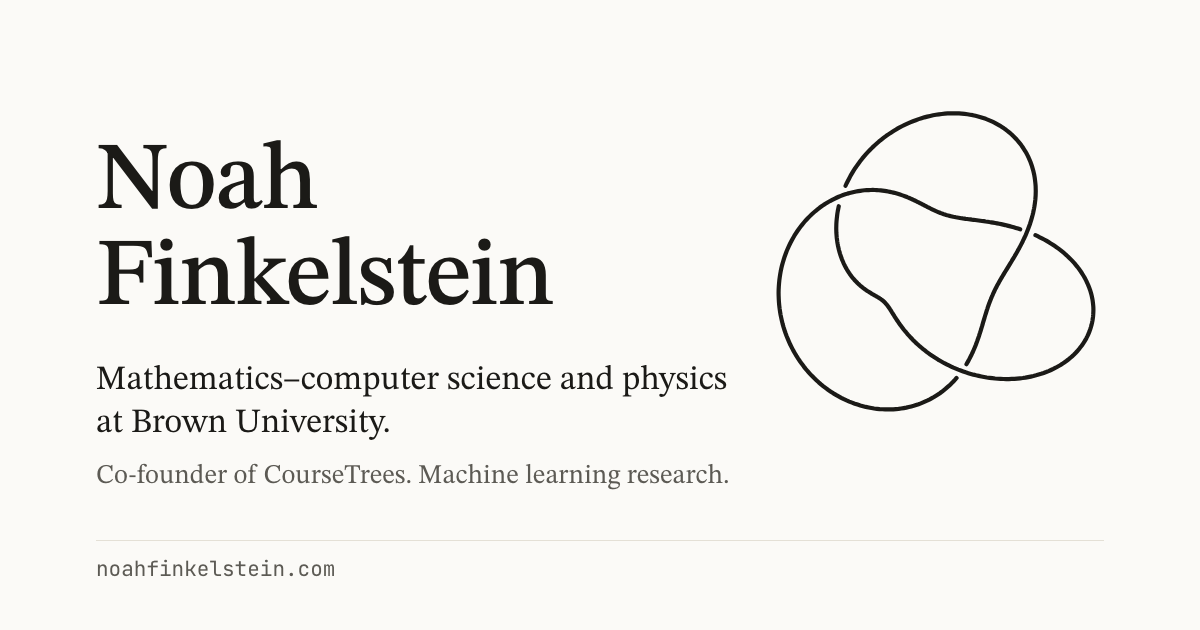
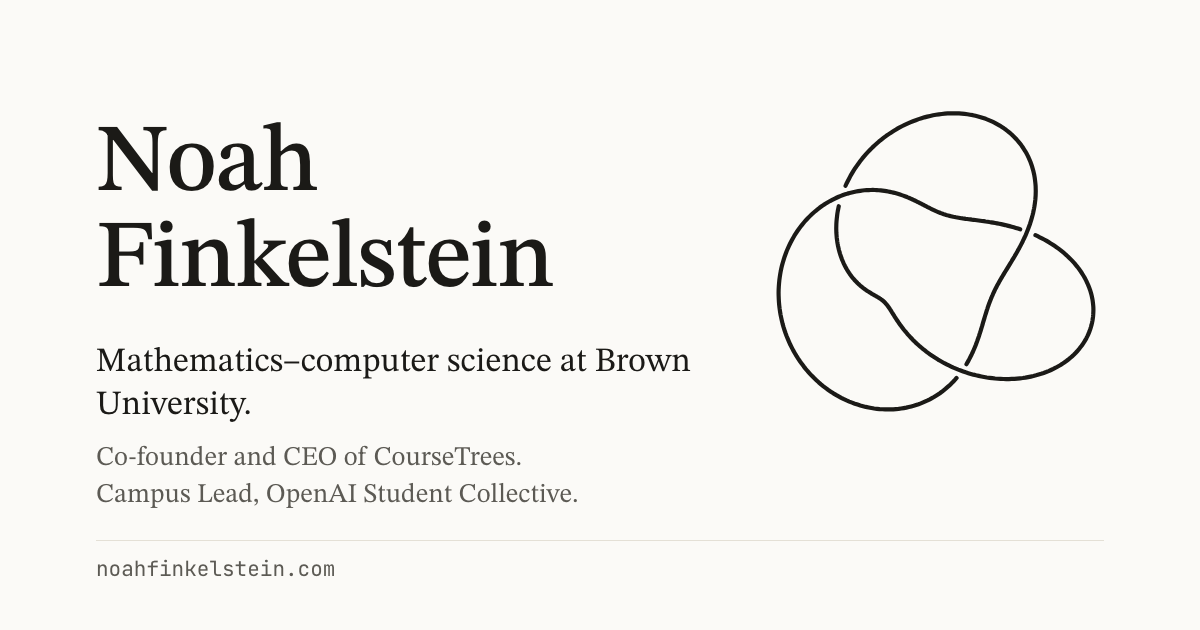
Align portfolio with October 2026 resume

Changed region(s): [[0.0617, 0.5429, 0.6167, 0.8143], [0.0617, 0.181, 0.4625, 0.4825]]

diff --git a/src/content/experience.ts b/src/content/experience.ts
@@ -24,39 +24,57 @@ export type Role = {
 
 export const experience: Role[] = [
   {
-    date: "Jun–Aug 2026",
-    role: "Research Student",
-    org: "Massachusetts General Hospital, Biostatistics Research Group",
-    place: "Boston",
+    date: "Aug 2026 –",
+    role: "Campus Lead",
+    org: "OpenAI Student Collective",
+    place: "Providence, RI",
     bullets: [
-      "Ran a simulation study testing alternative thresholds for the Long COVID Research Index, using LASSO-regularized k-means over 40-dimensional negative-unlabeled cohort data and comparing how the choice of distance metric changed the answer.",
-      "Cut the runtime of the analysis pipeline with multithreaded parallel computation, and ported parts of it out of R’s Tidyverse into Python.",
-      "The work sits inside the NIH RECOVER Initiative, a $1.8 billion study with roughly 30,000 enrolled participants.",
+      "Coordinated with the OpenAI team on campus workshops focused on ChatGPT, Codex, and AI-assisted development.",
     ],
-    stack: ["R", "Python", "scikit-learn"],
   },
   {
-    date: "Apr 2026 –",
+    date: "Jun 2026 –",
     role: "Co-Founder and CEO",
     org: "CourseTrees",
     orgHref: "https://coursetrees.com",
     bullets: [
-      "Co-founded and built a course-planning tool that draws a university’s catalog as a graph: 400,000 courses and 220,000 prerequisite edges across 150 universities.",
-      "Wrote most of the stack: Next.js and React on the front, Python scrapers and PostgreSQL behind them, deployed on Vercel and Supabase.",
-      "200 users and 3,500 page requests in the first day. Sponsored by Brown’s First-Year Advising and Meiklejohn Peer Advising programs, and funded to move the heavier jobs onto AWS.",
+      "Built and deployed a web and iOS academic-planning platform using TypeScript, React, Next.js, and PostgreSQL/Supabase for course discovery, prerequisite visualization, and degree planning.",
+      "Implemented AI-advising infrastructure with Redis-backed rate limiting, response caching, and spend controls.",
+      "Grew CourseTrees to 450 registered users across 23 universities and secured a $2,500 non-dilutive Expand Grant from Brown’s Nelson Center for Entrepreneurship.",
     ],
-    stack: ["Next.js", "TypeScript", "Python", "PostgreSQL", "Supabase"],
+    stack: ["TypeScript", "React", "Next.js", "PostgreSQL", "Supabase", "Redis"],
   },
   {
-    date: "Nov 2024 –",
-    role: "Machine Learning Researcher",
-    org: "Bari–Hazeltine Applied Fluid Dynamics Group, Brown University",
-    place: "Providence",
+    date: "Jun–Aug 2026",
+    role: "Applied Machine Learning Intern",
+    org: "Massachusetts General Hospital, Biostatistics Research Group",
+    place: "Boston, MA",
     bullets: [
-      "Model how particles move through dense polymer membranes under centrifugal filtration, using physics-informed neural networks, Monte Carlo methods, and Brownian motion.",
-      "Joint work with Brown’s School of Engineering and the Weitz experimental soft condensed matter group at Harvard.",
+      "Implemented a simulation study evaluating candidate Long COVID Research Index (LCRI) thresholds using LASSO-regularized k-means clustering for NIH RECOVER research; presented findings to senior statisticians.",
+      "Parallelized simulation and analysis workflows and ported portions of an R/Tidyverse pipeline to Python for high-dimensional cohort analysis, reducing the data generation pipeline used to derive the LCRI from 12 hours to 3 hours.",
+    ],
+    stack: ["R", "Python", "scikit-learn"],
+  },
+  {
+    date: "Nov 2024 – May 2026",
+    role: "Deep Learning Researcher",
+    org: "Prism",
+    place: "Providence, RI",
+    bullets: [
+      "Modeled particle transport through dense polymer membranes using physics-informed neural networks, Monte Carlo simulation, and Brownian-motion models.",
+      "Collaborated with Brown Engineering and Harvard’s Weitz Lab on computational methods for centrifugal particle filtration.",
     ],
     stack: ["Python", "PyTorch", "PINNs"],
+  },
+  {
+    date: "May–Aug 2025",
+    role: "Software Engineering Intern",
+    org: "Biotech Stealth Startup",
+    place: "Cambridge, MA",
+    bullets: [
+      "Built an internal workflow automation system in C++ that reduced manual data synchronization and triage time by 45%.",
+    ],
+    stack: ["C++"],
   },
   {
     date: "2023–2025",
@@ -69,13 +87,13 @@ export const experience: Role[] = [
     ],
   },
   {
-    date: "2022–2024",
-    role: "Events Coordinator and Committee Member",
+    date: "Jan 2022 – May 2024",
+    role: "Events Coordinator, MHSCL Committee Member, Advisor",
     org: "Massachusetts High School Chess League",
-    place: "Boston",
+    place: "Boston, MA",
     bullets: [
-      "Co-founded a student-run league that grew to more than 200 members across 25 high schools.",
-      "Ran tournaments in person and online, and handled sponsorships from Chess.com and the Massachusetts Chess Association.",
+      "Co-founded a student-run league of 200+ members across 25+ high schools, sponsored by Chess.com and the Massachusetts Chess Association (MACA).",
+      "Ran tournaments in person and online.",
     ],
   },
 ];
@@ -97,18 +115,13 @@ export const education: School[] = [
   {
     date: "2024–2028",
     school: "Brown University",
-    degree: "Sc.B. Mathematics–Computer Science and A.B. Physics",
-    note: "Expected May 2028. GPA 3.8.",
+    degree: "Sc.B. Mathematics–Computer Science",
+    note: "Expected May 2028. GPA 3.8. SAT 1560.",
     coursework: [
-      "Abstract Algebra",
-      "Graph Theory",
-      "Linear Algebra with Theory",
-      "Statistics with Theory",
-      "Quantum Mechanics",
       "Machine Learning",
       "Deep Learning",
-      "Artificial Intelligence",
-      "Data Structures and Algorithms",
+      "Computer Vision",
+      "Data Structures & Algorithms",
       "Computer Systems",
     ],
     activities: [

diff --git a/src/content/projects.ts b/src/content/projects.ts
@@ -70,12 +70,12 @@ export type Project = {
 export const projects: Project[] = [
   {
     slug: "coursetrees",
-    date: "Apr 2026 – now",
+    date: "Jun 2026 – now",
     title: "CourseTrees",
     status: "Live",
     blurb:
-      "A course catalog is a few thousand paragraphs with the prerequisites buried in the prose, which makes it a graph pretending to be a list. CourseTrees parses the prose back into edges and lets you walk the result: click a course and see what it needs and what it opens up, next to grade distributions, ratings, and degree requirements. Live across 150 universities. The layout is a force simulation written by hand and run in a web worker, because no off-the-shelf layout stayed readable at catalog scale. Co-founded with Rohan Vittal.",
-    stack: ["Next.js", "TypeScript", "Cytoscape", "Python", "PostgreSQL", "Supabase"],
+      "A course catalog is a few thousand paragraphs with the prerequisites buried in the prose, which makes it a graph pretending to be a list. CourseTrees parses the prose back into edges and lets you walk the result: click a course and see what it needs and what it opens up, next to grade distributions, ratings, and degree requirements. The web and iOS platform has 450 registered users across 23 universities and received a $2,500 non-dilutive Expand Grant from Brown’s Nelson Center for Entrepreneurship. AI advising uses Redis-backed rate limiting, response caching, and spend controls. The layout is a force simulation written by hand and run in a web worker, because no off-the-shelf layout stayed readable at catalog scale. Co-founded with Rohan Vittal.",
+    stack: ["Next.js", "React", "TypeScript", "Cytoscape", "Python", "PostgreSQL", "Supabase", "Redis"],
     links: [{ label: "coursetrees.com", href: "https://coursetrees.com" }],
     media: {
       type: "video",
@@ -160,8 +160,8 @@ export const projects: Project[] = [
     title: "Distributed key-value store",
     status: "Course project",
     blurb:
-      "A sharded key-value store in C++: a shard controller that assigns key ranges to servers, and a client that routes each operation to whichever server currently owns that key. There is one reader-writer lock per hash bucket, and multi-key operations sort and deduplicate their bucket indices before taking any of them, so two concurrent MultiPuts cannot deadlock against each other.",
-    stack: ["C++"],
+      "A sharded key-value store in C and C++ with dynamic key-range routing: a shard controller assigns key ranges to servers, and a client routes each operation to whichever server currently owns that key. There is one reader-writer lock per hash bucket, and multi-key operations sort and deduplicate their bucket indices before taking any of them, so two concurrent MultiPuts cannot deadlock against each other.",
+    stack: ["C", "C++"],
     media: {
       type: "video",
       src: "/projects/kvstore/loop-control-plane.mp4",
@@ -177,8 +177,28 @@ export const projects: Project[] = [
     title: "BetaGo",
     status: "Course project",
     blurb:
-      "A Go agent for the 9×9 board, written to compare greedy, minimax, alpha-beta, iterative deepening, and Monte Carlo tree search under a fixed per-move time budget. The winner was not the interesting-sounding one: alpha-beta at depth 3, with a small learned value network standing in for the stone-count heuristic, took 293 of 300 games from the greedy baseline and 99 of 100 from depth-2 alpha-beta, while MCTS never beat alpha-beta at any depth I tried.",
+      "A Go/Baduk agent for the 9×9 board, written to compare greedy, minimax, alpha-beta, iterative deepening, and Monte Carlo tree search under a fixed per-move time budget. The winner was not the interesting-sounding one: alpha-beta at depth 3, with a small learned value network standing in for the stone-count heuristic, won 293/300 games against the greedy baseline and 99/100 against depth-2 alpha-beta in project evaluations, while MCTS never beat alpha-beta at any depth I tried.",
     stack: ["Python", "PyTorch"],
+  },
+
+  {
+    slug: "finkos",
+    date: "",
+    title: "FinkOS",
+    status: "Systems project",
+    blurb:
+      "An operating-system kernel written from scratch in C and Assembly, tested using QEMU, and running on the Raspberry Pi 3 Model B+/B.",
+    stack: ["C", "Assembly"],
+  },
+  {
+    slug: "cupid-on-thayer",
+    date: "",
+    title: "Cupid On Thayer",
+    status: "Web app",
+    blurb:
+      "A matchmaking site for Brown University students, with 65 signups.",
+    stack: ["TypeScript", "MySQL"],
+    links: [{ label: "cupidonthayer.com", href: "https://www.cupidonthayer.com" }],
   },
 
   /* -------------------------------------------------------------------------

diff --git a/src/content/home.ts b/src/content/home.ts
@@ -19,7 +19,7 @@ export const home = {
      * Plain prose; links are added in Hero.tsx for the words in `ledeLinks`.
      */
     lede:
-      "Mathematics–computer science and physics at Brown University. Co-founder of CourseTrees, and machine learning research in the Bari–Hazeltine group.",
+      "Mathematics–computer science at Brown University. Co-founder and CEO of CourseTrees, and Campus Lead for the OpenAI Student Collective.",
     /** Words in the lede that become links (exact match). */
     ledeLinks: { CourseTrees: "https://coursetrees.com" } as Record<string, string>,
     /** The figure caption under the knot. Keep it true. */
@@ -36,7 +36,7 @@ export const home = {
   about: {
     /* Each string is one paragraph, shown under the lede in the hero. */
     intro: [
-      "I am an undergraduate at Brown, class of 2028, studying mathematics–computer science and physics. Most of what I work on ends up somewhere between the two: machine learning that has to respect a differential equation, statistics on data that was never collected for the question being asked, software for a problem I ran into myself.",
+      "I am an undergraduate at Brown, class of 2028, studying mathematics–computer science. My work spans machine learning, biostatistics, and software for problems I have run into myself: physics-informed neural networks at Prism, Long COVID research at Massachusetts General Hospital, and academic planning with CourseTrees.",
       "Away from that I play chess, which I have been losing at since I was seven and running tournaments for since I was sixteen. I also do astrophotography, which is mostly standing in a field in the cold waiting for a cloud to move. If any of this overlaps with something you are working on, I would like to hear about it.",
     ],
   },
@@ -60,7 +60,7 @@ export const home = {
    * Roles that are ongoing, by their `role` in experience.ts. Their date
    * reads "… – now" on the CV. Only list things that really are.
    */
-  currently: ["Co-Founder and CEO", "Machine Learning Researcher"],
+  currently: ["Co-Founder and CEO", "Campus Lead"],
 };
 
 export type Home = typeof home;

diff --git a/src/content/skills.ts b/src/content/skills.ts
@@ -8,7 +8,7 @@
      items  the tools in it, in the order they should read
 
    To add a tool, put its name in the right `items` list. To add a category,
-   add a block. Only list things that appear in experience.ts or projects.ts.
+   add a block. Keep the list aligned with the current resume.
    --------------------------------------------------------------------------- */
 
 export type SkillCategory = {
@@ -19,18 +19,14 @@ export type SkillCategory = {
 export const skills: SkillCategory[] = [
   {
     label: "Languages",
-    items: ["Python", "TypeScript", "C++", "R", "Swift"],
+    items: ["Python", "C/C++", "Rust", "R", "Java", "Go", "TypeScript", "Swift"],
   },
   {
-    label: "Machine learning and statistics",
-    items: ["PyTorch", "scikit-learn", "Tidyverse"],
+    label: "Frameworks and tools",
+    items: ["AWS", "Docker", "Kubernetes", "CI/CD", "React", "Next.js", "PostgreSQL", "Redis"],
   },
   {
-    label: "Web and data",
-    items: ["React", "Next.js", "three.js", "Vite", "MapLibre", "Cytoscape.js", "Zod", "Pydantic", "PostgreSQL"],
-  },
-  {
-    label: "Tools",
-    items: ["Supabase", "Firebase", "Vercel"],
+    label: "AI and machine learning",
+    items: ["PyTorch", "Keras", "TensorFlow", "scikit-learn", "CNNs", "Transformers", "CUDA"],
   },
 ];

diff --git a/scripts/og-card.html b/scripts/og-card.html
@@ -59,8 +59,8 @@
 <div id="card">
   <div class="text">
     <h1>Noah Finkelstein</h1>
-    <p class="lede">Mathematics–computer science and physics at Brown University.</p>
-    <p class="roles">Co-founder of CourseTrees. Machine learning research.</p>
+    <p class="lede">Mathematics–computer science at Brown University.</p>
+    <p class="roles">Co-founder and CEO of CourseTrees.<br>Campus Lead, OpenAI Student Collective.</p>
   </div>
   <svg id="knot" aria-hidden="true"></svg>
   <div class="dom">noahfinkelstein.com</div>

diff --git a/src/content/site.ts b/src/content/site.ts
@@ -56,8 +56,8 @@ export const site = {
   /** Browser tab + Google result + link previews. Keep it factual. */
   description:
     "Noah Finkelstein — Brown University undergraduate in mathematics–computer " +
-    "science and physics. Machine learning research, biostatistics, and " +
-    "CourseTrees.",
+    "science. Co-founder and CEO of CourseTrees and Campus Lead for the " +
+    "OpenAI Student Collective.",
 
   /** Your real domain. Used for canonical URLs and link previews. */
   url: "https://noahfinkelstein.com",

diff --git a/README.md b/README.md
@@ -94,8 +94,8 @@ sentence ("Python, TypeScript, C++, R and Swift.").
 { label: "Languages", items: ["Python", "TypeScript", "C++", "R", "Swift", "Rust"] },
 ```
 
-Add a tool to the right `items` list, or a new block for a new category. Only
-list tools that appear in `experience.ts` or `projects.ts`.
+Add a tool to the right `items` list, or a new block for a new category. Keep
+the list aligned with the current resume.
 
 ### Adding a LinkedIn post
 
